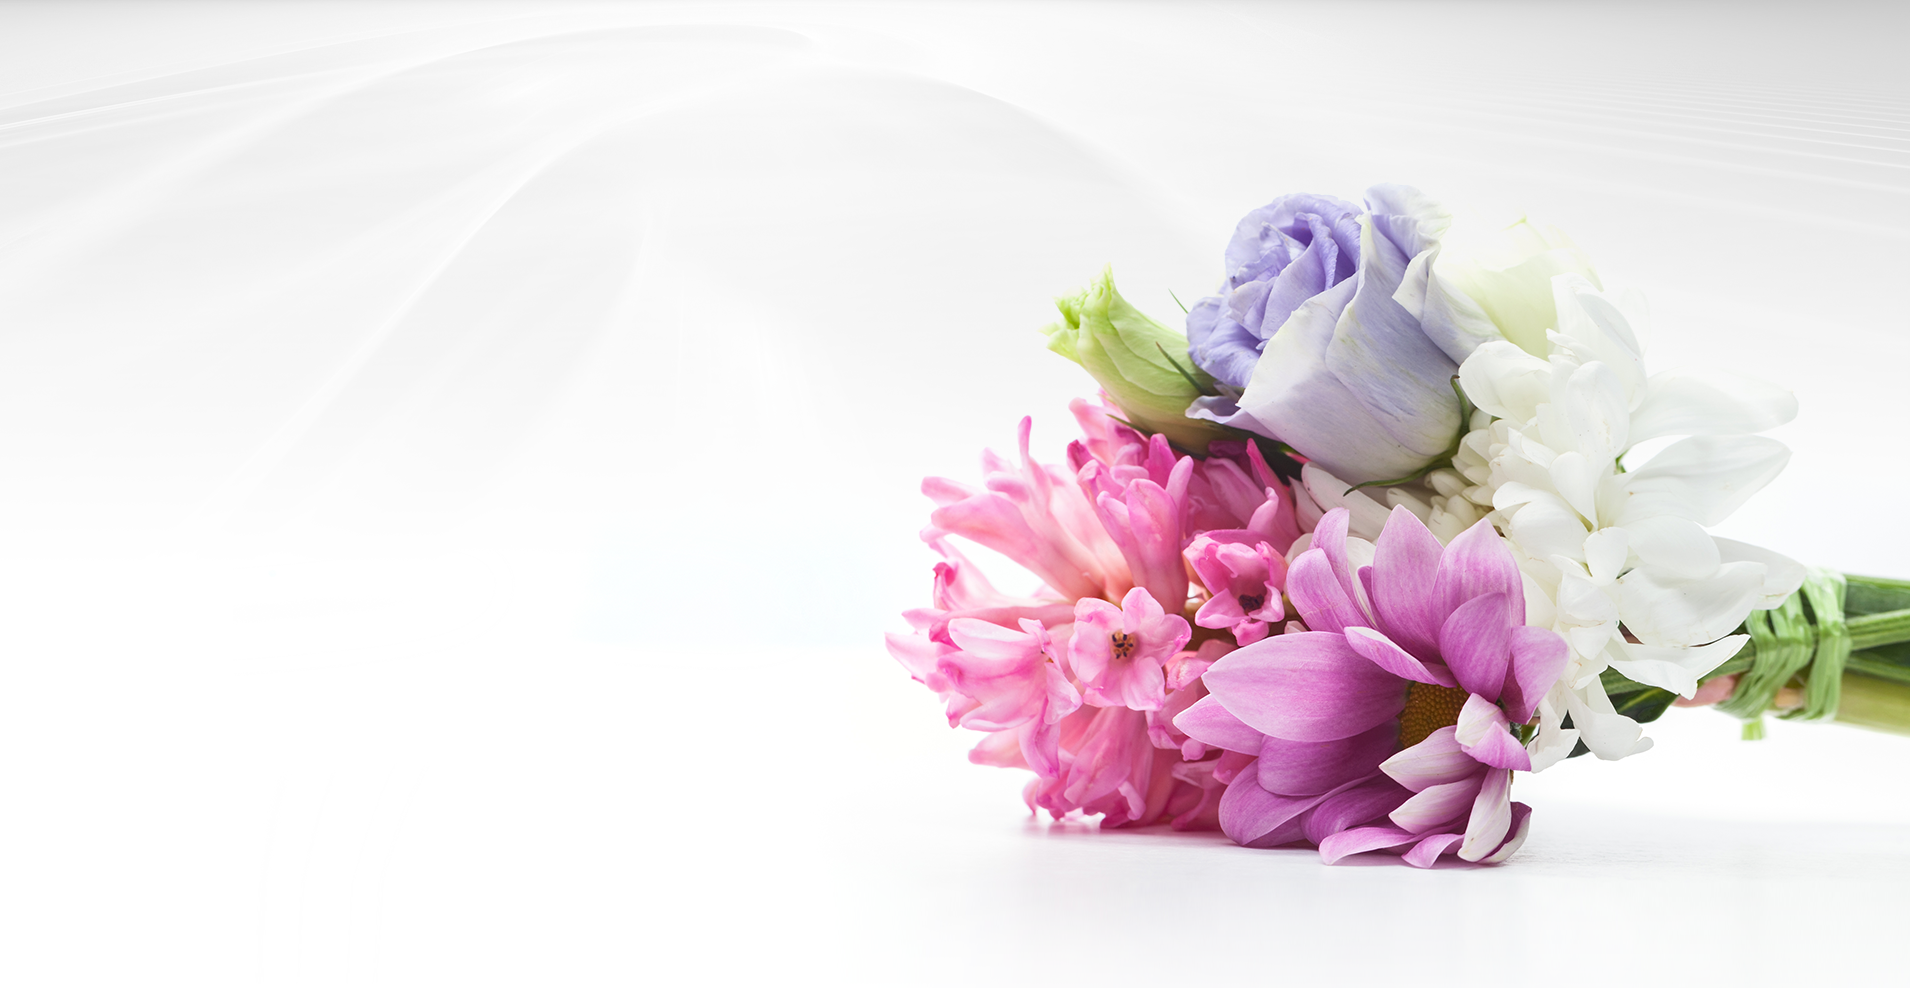
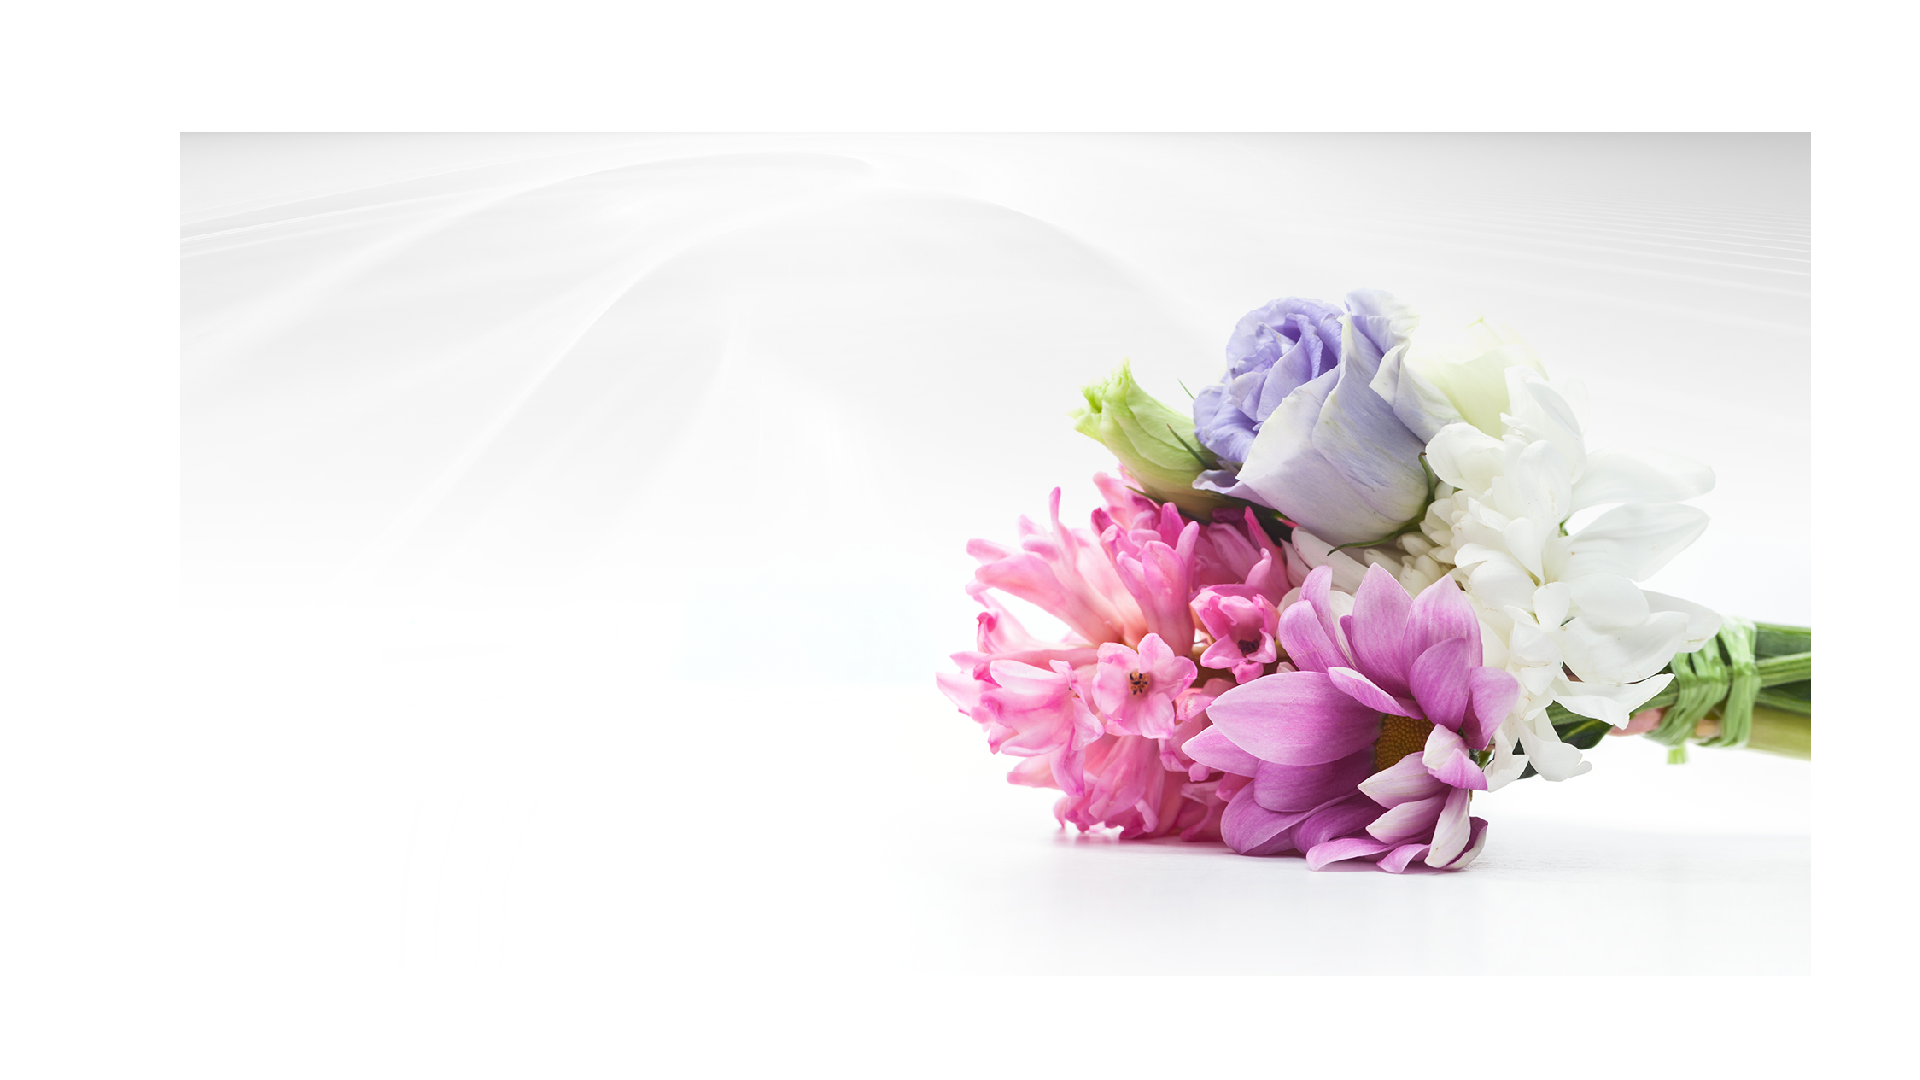
Adjust Hero, fix Nav color bug, clean code

diff --git a/src/components/ui/Card.tsx b/src/components/ui/Card.tsx
@@ -4,6 +4,8 @@ import Link from 'next/link';
 import Image, { StaticImageData } from 'next/image';
 import logoSub from '../../../assets/img/logo-sub.png';
 import { useAppContext } from '@/Provider/appContext';
+import clsx from 'clsx';
+import { josefinSans } from '../../../utils/fonts';
 
 type CardProps = {
   cardNumber: number;
@@ -16,11 +18,17 @@ const Card = ({ cardNumber, cardHeadingText, href }: CardProps) => {
 
   const removeNavSticky = () => {
     navRef.current?.classList.remove('sticky');
+    navRef.current?.classList.add('regular');
   };
 
   return (
     <div className='card '>
-      <h4 className='card__heading text-lg sm:text-xl font-medium tracking-wide uppercase text-color-accent-main mb-3'>
+      <h4
+        className={clsx(
+          josefinSans.className,
+          'text-lg text-center font-medium uppercase text-color-accent-main mb-3'
+        )}
+      >
         {cardHeadingText}
       </h4>
       <div
@@ -33,7 +41,7 @@ const Card = ({ cardNumber, cardHeadingText, href }: CardProps) => {
       <div className='btn'>
         <Link href={href}>
           <button
-            className='card__link active:scale-95 transition-all, duration-300 block items-center justify-center font-semibold transition-color focus:outline-none focus:ring-8 focus:ring-ring-color-primary focus:ring-offset-2 cursor-pointer px-7 py-4  w-full bg-white hover:bg-color-gray-light-1  border-color-accent-main  text-white text-base sm:text-lg uppercase'
+            className='card__link active:scale-95 transition-all, duration-300 block items-center justify-center font-semibold transition-color focus:outline-none focus:ring-8 focus:ring-ring-color-primary focus:ring-offset-2 cursor-pointer px-7 py-4  w-full bg-color-accent-main hover:bg-color-shade-main border-color-accent-main  text-white text-base sm:text-lg uppercase'
             onClick={removeNavSticky}
           >
             Saznajte više

diff --git a/src/app/globals.css b/src/app/globals.css
@@ -36,23 +36,14 @@ html {
   box-shadow: inset 0 0 0 3px #fff;
 }
 
-.nav__header {
-  background-image: url('../../assets/img/navbg.png');
-}
-
 .nav__header.sticky {
   position: fixed;
   background-color: rgba(255, 255, 255, 0.95);
   box-shadow: 0 1.2rem 3.2rem rgba(0, 0, 0, 0.03);
-  background-image: none;
 }
 
 .nav__header.sticky .nav {
   background-color: rgba(255, 255, 255, 0.95);
-}
-
-/* cards */
-.card {
 }
 
 .card__picture--1,
@@ -78,39 +69,11 @@ html {
   background-image: url('../../assets/img/cards/dodatne.jpg');
 }
 
-.card {
-  display: grid;
-  grid-template-columns: repeat(2, 1fr);
-}
-
-.card-photo {
-  grid-column: 1 / -1;
-}
-
-.card__heading {
-  grid-column: 1 / -1;
-  width: 100%;
-  font-family: 'Josefin Sans', sans-serif;
-  text-align: center;
-}
-
 /* 
     'color-lightest': '#fdf2f3',
         'color-accent-darkest': '#2e151a',
 
         'color-gray-light-1': '#ffdde1', */
-
-.btn {
-  grid-column: 1 / -1;
-}
-
-.btn button {
-  background-image: linear-gradient(
-    to right bottom,
-    rgba(230, 107, 128, 0.85),
-    rgba(240, 62, 62, 0.85)
-  );
-}
 
 /* balloons  */
 .balloons__img-box {

diff --git a/src/app/Home/HowItWorks.tsx b/src/app/Home/HowItWorks.tsx
@@ -6,7 +6,7 @@ import { Pointer, PartyPopper, HeartHandshake } from 'lucide-react';
 
 const HowItWorks: FC = () => {
   return (
-    <section className='py-24 lg:px-10 bg-color-lightest border-t-2 border-b-2 border-white'>
+    <section className='py-24 lg:px-10 bg-color-lightest border-b-2 border-white'>
       <div className='mx-auto max-w-custom px-4 lg:px-0'>
         <div className='mb-16 lg:mb-24'>
           <h3
@@ -30,7 +30,7 @@ const HowItWorks: FC = () => {
               <h3
                 className={clsx(
                   josefinSans.className,
-                  'text-xl text-color-accent-main font-normal'
+                  'text-xl text-color-accent-main'
                 )}
               >
                 Recite nam šta volite

diff --git a/src/app/Home/Hero.tsx b/src/app/Home/Hero.tsx
@@ -39,10 +39,10 @@ const Hero: FC = () => {
 
   return (
     <section
-      className='hero__container pt-24 h-screen sm:pt-32 mt-5  px-2 lg:px-0'
+      className='hero__container pt-24 h-screen sm:pt-32  px-2 lg:px-0'
       ref={heroRef}
     >
-      <div className=' flex flex-col lg:grid lg:grid-cols-custom2fr lg:items-center gap-20 lg:gap-24 mx-auto max-w-[1366px]'>
+      <div className=' flex flex-col lg:grid lg:grid-cols-custom2fr lg:items-center gap-20 lg:gap-24 mx-auto max-w-[1300px]'>
         <div className='mt-6 sm:mt-20'>
           <h1
             className={clsx(

diff --git a/src/components/ui/CustomLink.tsx b/src/components/ui/CustomLink.tsx
@@ -8,7 +8,7 @@ export const CustomLinkVariants = cva(
     variants: {
       variant: {
         default: 'bg-color-accent-main hover:bg-color-shade-main text-white',
-        ghost: 'bg-white hover:bg-color-gray-light-1 text-gray-600',
+        ghost: 'bg-white hover:bg-[#f8f9fa] text-gray-600',
       },
       size: {},
     },
